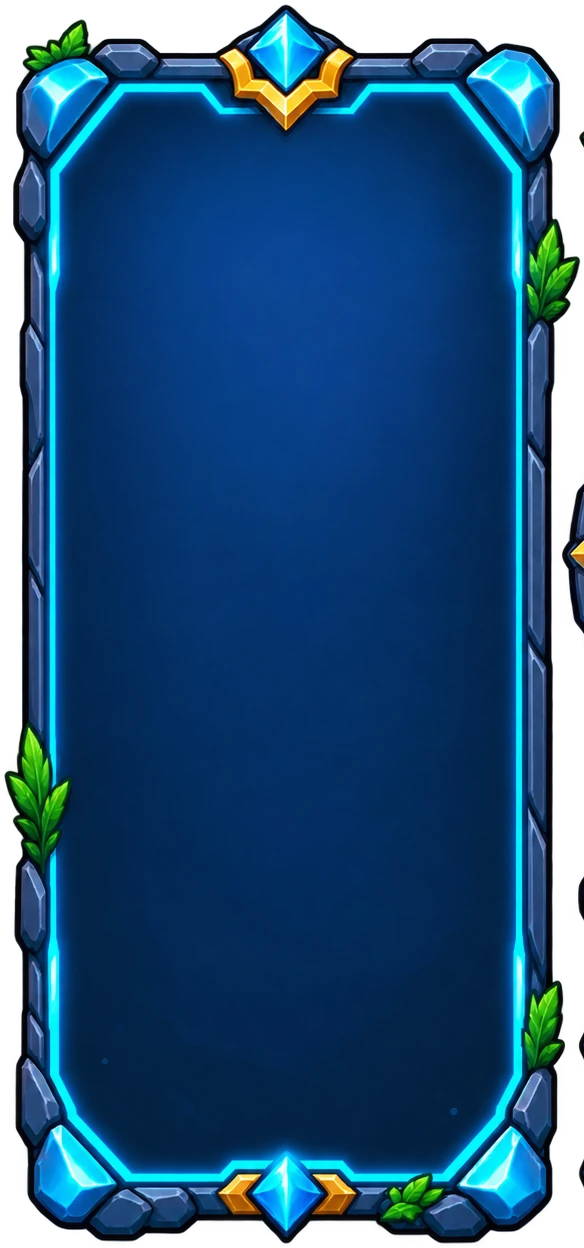
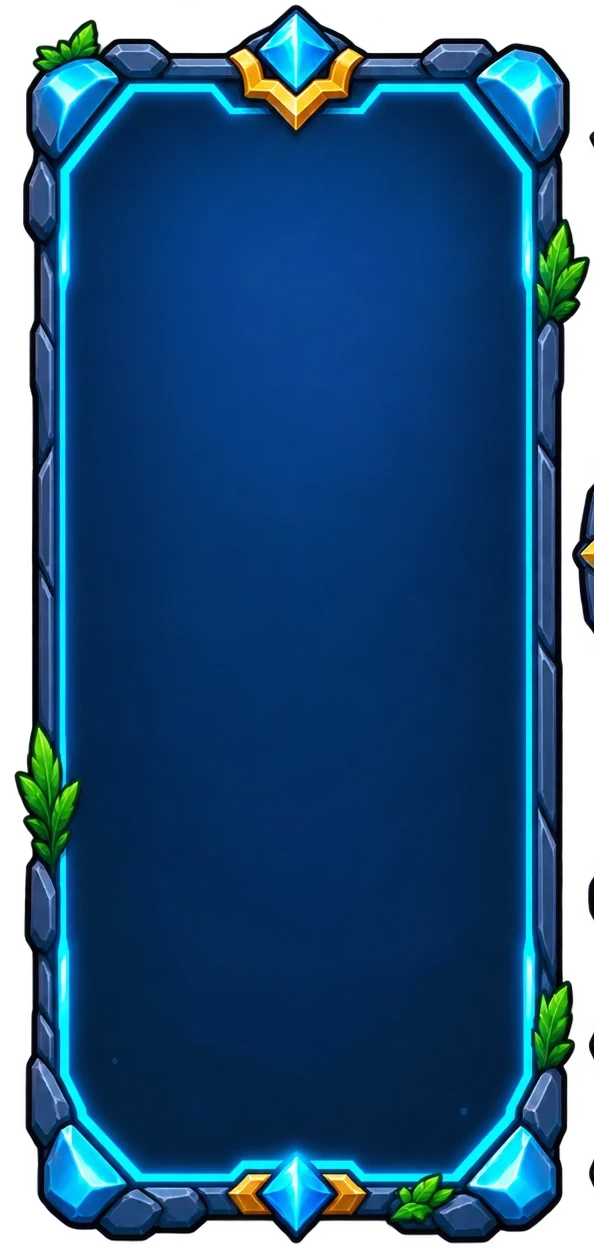
fix(game): dialog frames centred on their gem
The frame pictures were cropped with a leaf touching one edge, so the
file's centre sat a few pixels off the gem's axis. Both are padded so the
gem, the inner centre and the stone edges share the exact centre, and the
bands are symmetric; crest, title and buttons now measure dead centre.

diff --git a/src/game/main.ts b/src/game/main.ts
@@ -133,8 +133,8 @@ let optionsFrom: 'menu' | 'pause' = 'menu';
  * sliced, and the content sits inside the centre.
  */
 const FRAMES = {
-  short: { l: 0.167, r: 0.158, t: 0.105, b: 0.115, ratio: 1.36 },
-  tall: { l: 0.094, r: 0.116, t: 0.073, b: 0.06, ratio: 2.14 },
+  short: { l: 0.166, r: 0.166, t: 0.105, b: 0.115, ratio: 602 / 446 },
+  tall: { l: 0.109, r: 0.109, t: 0.073, b: 0.06, ratio: 1248 / 594 },
 };
 function fitPanel() {
   const panel = screen.querySelector<HTMLElement>('.panel');
